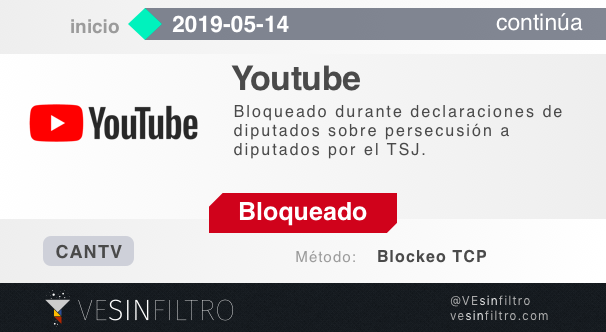
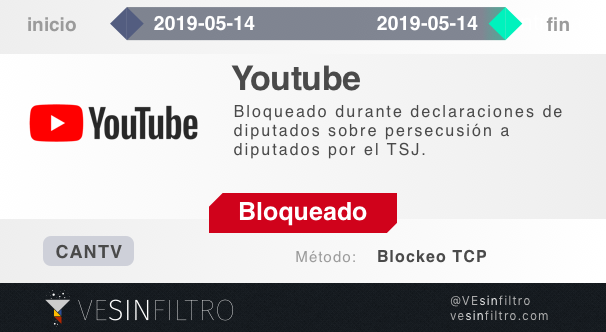
wrong date used, fix part one

Changed region(s): [[0.6238, 0.0, 1.0, 0.1205], [0.0297, 0.0, 0.4752, 0.1205]]

diff --git a/_noticias/2019-05-13-alerta.md b/_noticias/2019-05-13-alerta.md
@@ -8,11 +8,12 @@ categories: bloqueos
 image: /res/post_img/alerta-2019-05-13.png
 ---
 
-Este bloqueo ocurre mientras diputados a la Asamblea Nacional daban declaraciones sobre la persecución que viven ellos y sus compañeros el 14 de Mayo de 2019, denunciando una nueva sentencia del TSJ en contra de cuatro diputados.
+El principal proveedor de internet de Venezuela CANTV bloqueó YouTube mientras diputados a la Asamblea Nacional daban declaraciones sobre la persecución que viven ellos y sus compañeros el 14 de Mayo de 2019, denunciando una nueva sentencia del TSJ en contra de cuatro diputados.
 
-Se espera que pronto declare Juan Guaidó. Más temprano las inmediaciones del Palacio Federal Legislativo estuvieron bloqueadas por cuerpos de seguridad ante una supuesta amenaza de bomba, impidiendo que sesionara la Asamblea Nacional.
+Este bloqueo comenzó a las 3:28:24pm (hora de Venezuela, VET) utilizando una técnica conocida como bloqueo TCP, impidiendo conexiones TCP a una lista o rango de IPs. El bloqueo se levantó a las 5:24:46pm (VET); durando casi 2 horas bloqueda la plataforma.
 
-Este bloqueo comenzó a las 3:28:24pm (hora de Venezuela, VET) utilizando una técnica conocida como bloqueo TCP, impidiendo conexiones TCP a una lista o rango de IPs.
+Juan Guaidó dio su rueda de prensa a las 4:30pm (VET), una hora despúes del inicio del bloqueo. Más temprano las inmediaciones del Palacio Federal Legislativo estuvieron bloqueadas por cuerpos de seguridad ante una supuesta amenaza de bomba, impidiendo que sesionara la Asamblea Nacional.
+
 
 Este bloqueo afecta múltiples servicios de google incluyendo Google Drive, Google Calendar, Google Meet, Google Chat entre otros. Afecta también el motor de búsqueda Microsoft Bing, calculamos que el bloqueo de Bing es accidental por la proximidad de los rangos de IP.
 
